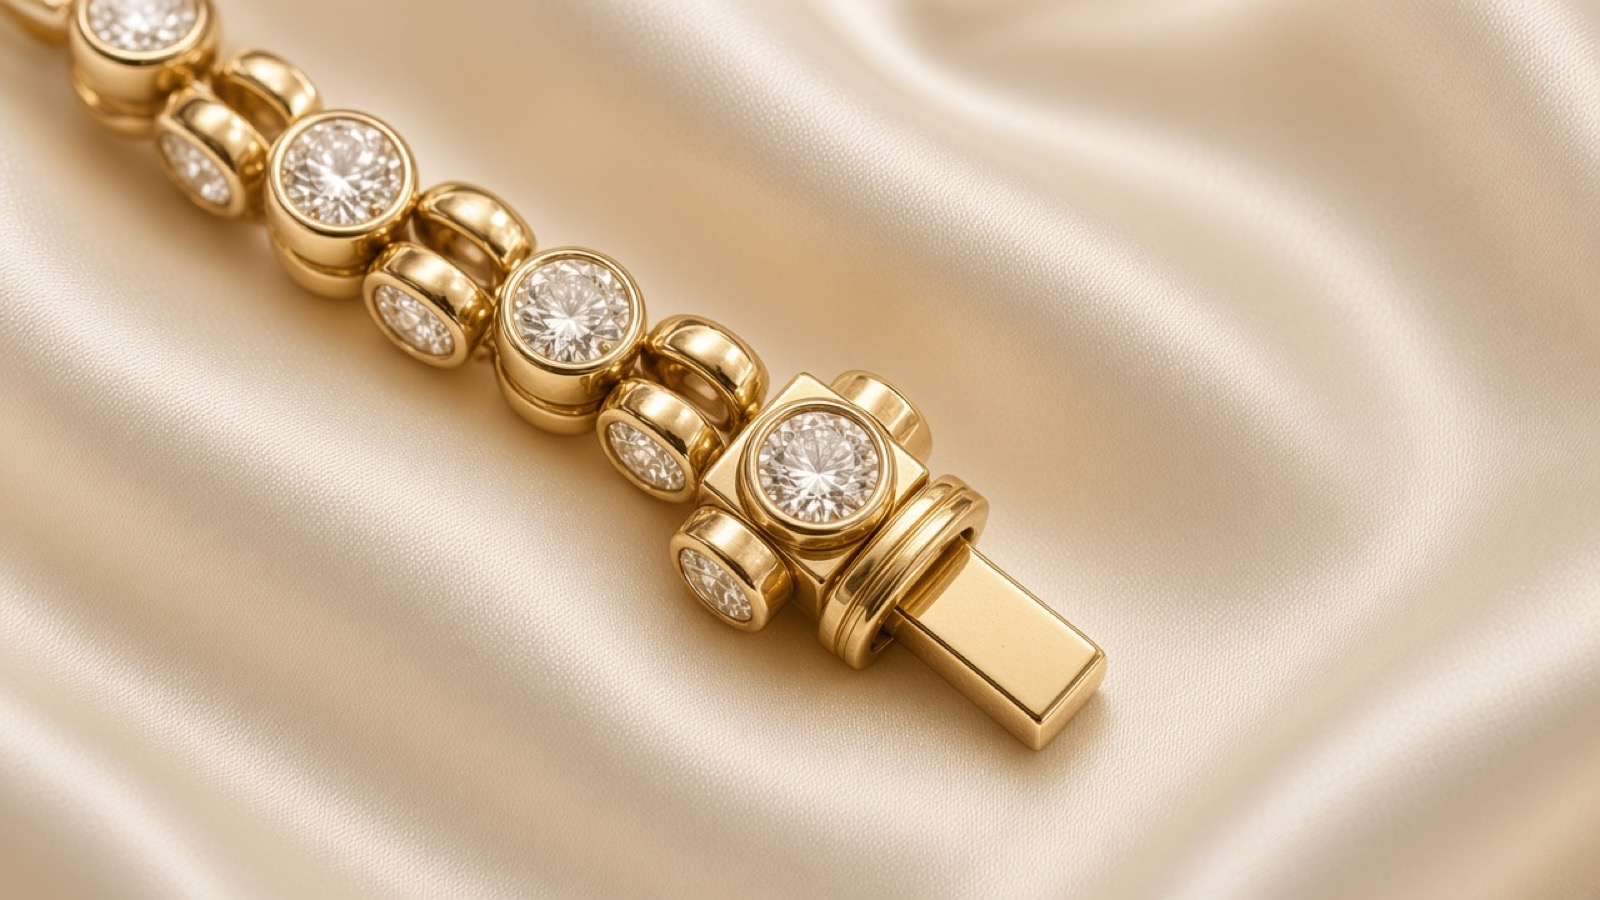
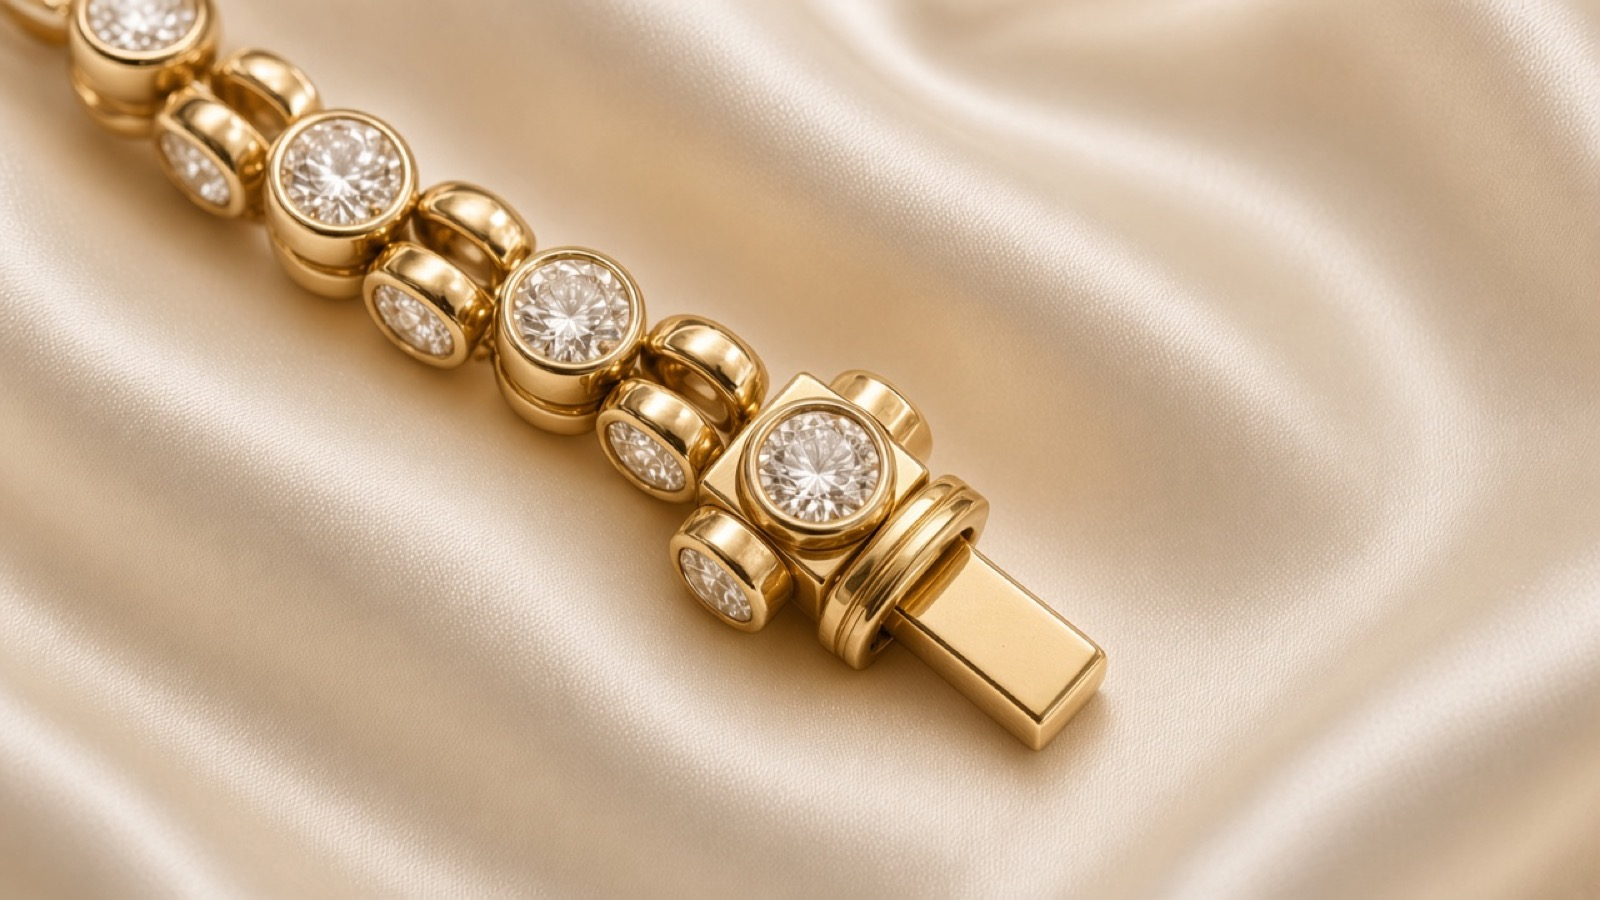
Fix twisted bezel mold and ship rose-gold heart angles.
Regenerate bezel product shots to keep the tubular multi-face setting from the clasp reference, and publish heart-link views on cooler ivory so rose gold reads clearly.

diff --git a/src/data/catalog.ts b/src/data/catalog.ts
@@ -84,35 +84,36 @@ export const productLines: ProductLine[] = [
 export const catalogPieces: CatalogPiece[] = [
   {
     id: 'bracelet-bezel-tennis',
-    title: 'Bezel tennis bracelet',
+    title: 'Twisted bezel bracelet',
     line: 'bracelets',
     image: 'images/products/bezel-tennis/cover.jpg',
-    alt: 'Yellow gold round bezel-set diamond tennis bracelet on cream silk',
-    blurb: 'Round brilliant diamonds in yellow-gold bezel links. Full piece, casting, face, and clasp views.',
+    alt: 'Yellow gold twisted tubular bezel diamond bracelet on cream silk',
+    blurb:
+      'Twisted tubular yellow-gold bezel mold with round diamonds facing top and sides. Full, layout, casting, face, and clasp views.',
     shots: [
       {
         src: 'images/products/bezel-tennis/cover.jpg',
-        alt: 'Full yellow gold round bezel tennis bracelet on cream silk',
+        alt: 'Full twisted tubular yellow gold bezel diamond bracelet on cream silk',
         label: 'Full',
       },
       {
         src: 'images/products/bezel-tennis/layout.jpg',
-        alt: 'Bezel tennis bracelet in S-curve layout on cream silk',
+        alt: 'Twisted bezel bracelet layout showing multi-face diamond orientation',
         label: 'Layout',
       },
       {
         src: 'images/products/bezel-tennis/casting.jpg',
-        alt: 'Side casting profile of yellow gold bezel tennis links',
+        alt: 'Casting profile of twisted tubular bezel links with side-facing diamonds',
         label: 'Casting',
       },
       {
         src: 'images/products/bezel-tennis/face.jpg',
-        alt: 'Top face of round diamonds in yellow gold bezels',
+        alt: 'Face and side diamonds on twisted yellow gold bezel links',
         label: 'Face',
       },
       {
         src: 'images/products/bezel-tennis/clasp.jpg',
-        alt: 'Clasp detail of yellow gold bezel tennis bracelet',
+        alt: 'Clasp of twisted bezel bracelet with square head and side diamonds',
         label: 'Clasp',
       },
     ],
@@ -142,18 +143,28 @@ export const catalogPieces: CatalogPiece[] = [
     title: 'Heart link bracelet',
     line: 'bracelets',
     image: 'images/products/heart-link/cover.jpg',
-    alt: 'Rose gold heart-link diamond bracelet with pavé halos',
-    blurb: 'Heart links with center stones and pavé halos. More angles coming as we shoot them.',
+    alt: 'Rose gold heart-link diamond bracelet with pavé halos on ivory silk',
+    blurb: '14K rose gold heart links with center heart diamonds and pavé halos. Full, layout, face, and casting views.',
     shots: [
       {
         src: 'images/products/heart-link/cover.jpg',
-        alt: 'Full heart-link diamond bracelet on cream silk',
+        alt: 'Full rose gold heart-link diamond bracelet on cool ivory silk',
         label: 'Full',
       },
       {
         src: 'images/products/heart-link/layout.jpg',
-        alt: 'Heart-link bracelet section on cream silk',
+        alt: 'Rose gold heart-link bracelet layout on ivory fabric',
         label: 'Layout',
+      },
+      {
+        src: 'images/products/heart-link/face.jpg',
+        alt: 'Face view of rose gold heart links with pavé halos',
+        label: 'Face',
+      },
+      {
+        src: 'images/products/heart-link/casting.jpg',
+        alt: 'Side casting of rose gold heart-link bracelet',
+        label: 'Casting',
       },
     ],
   },
